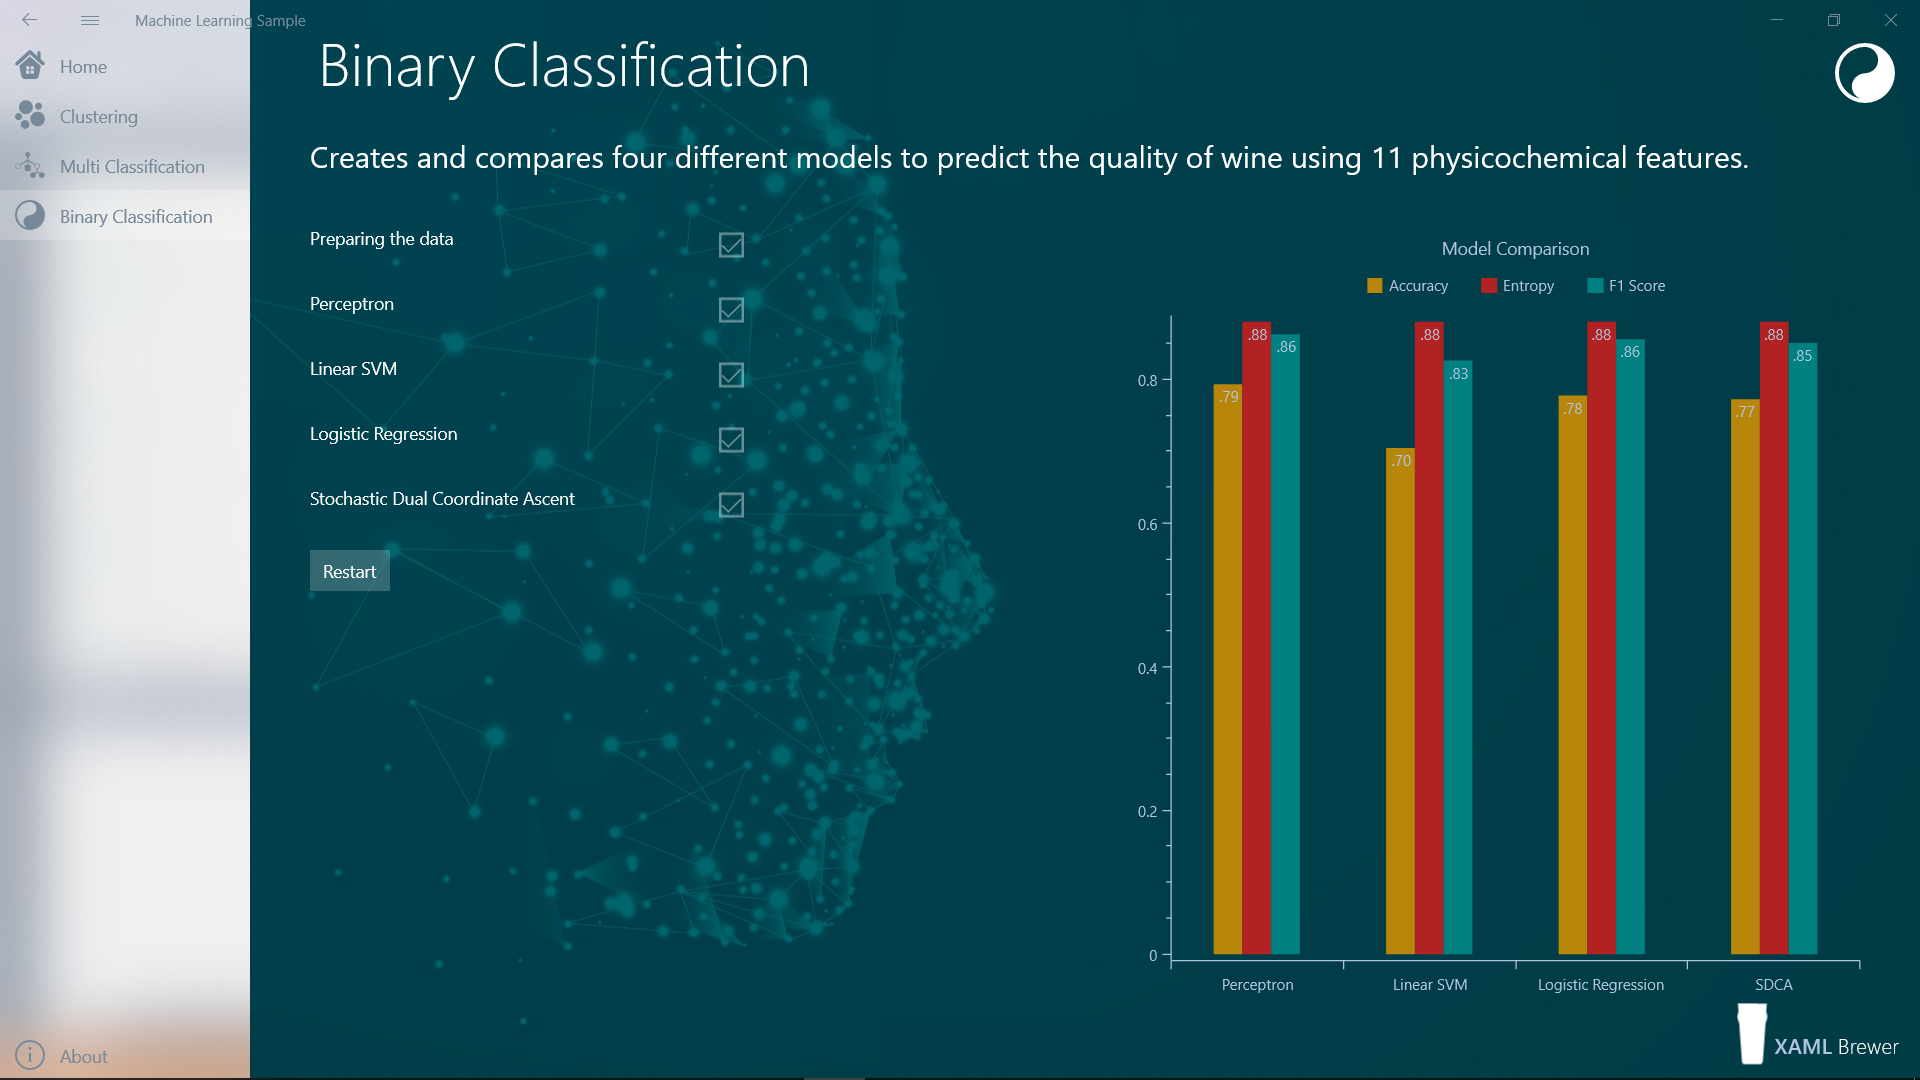
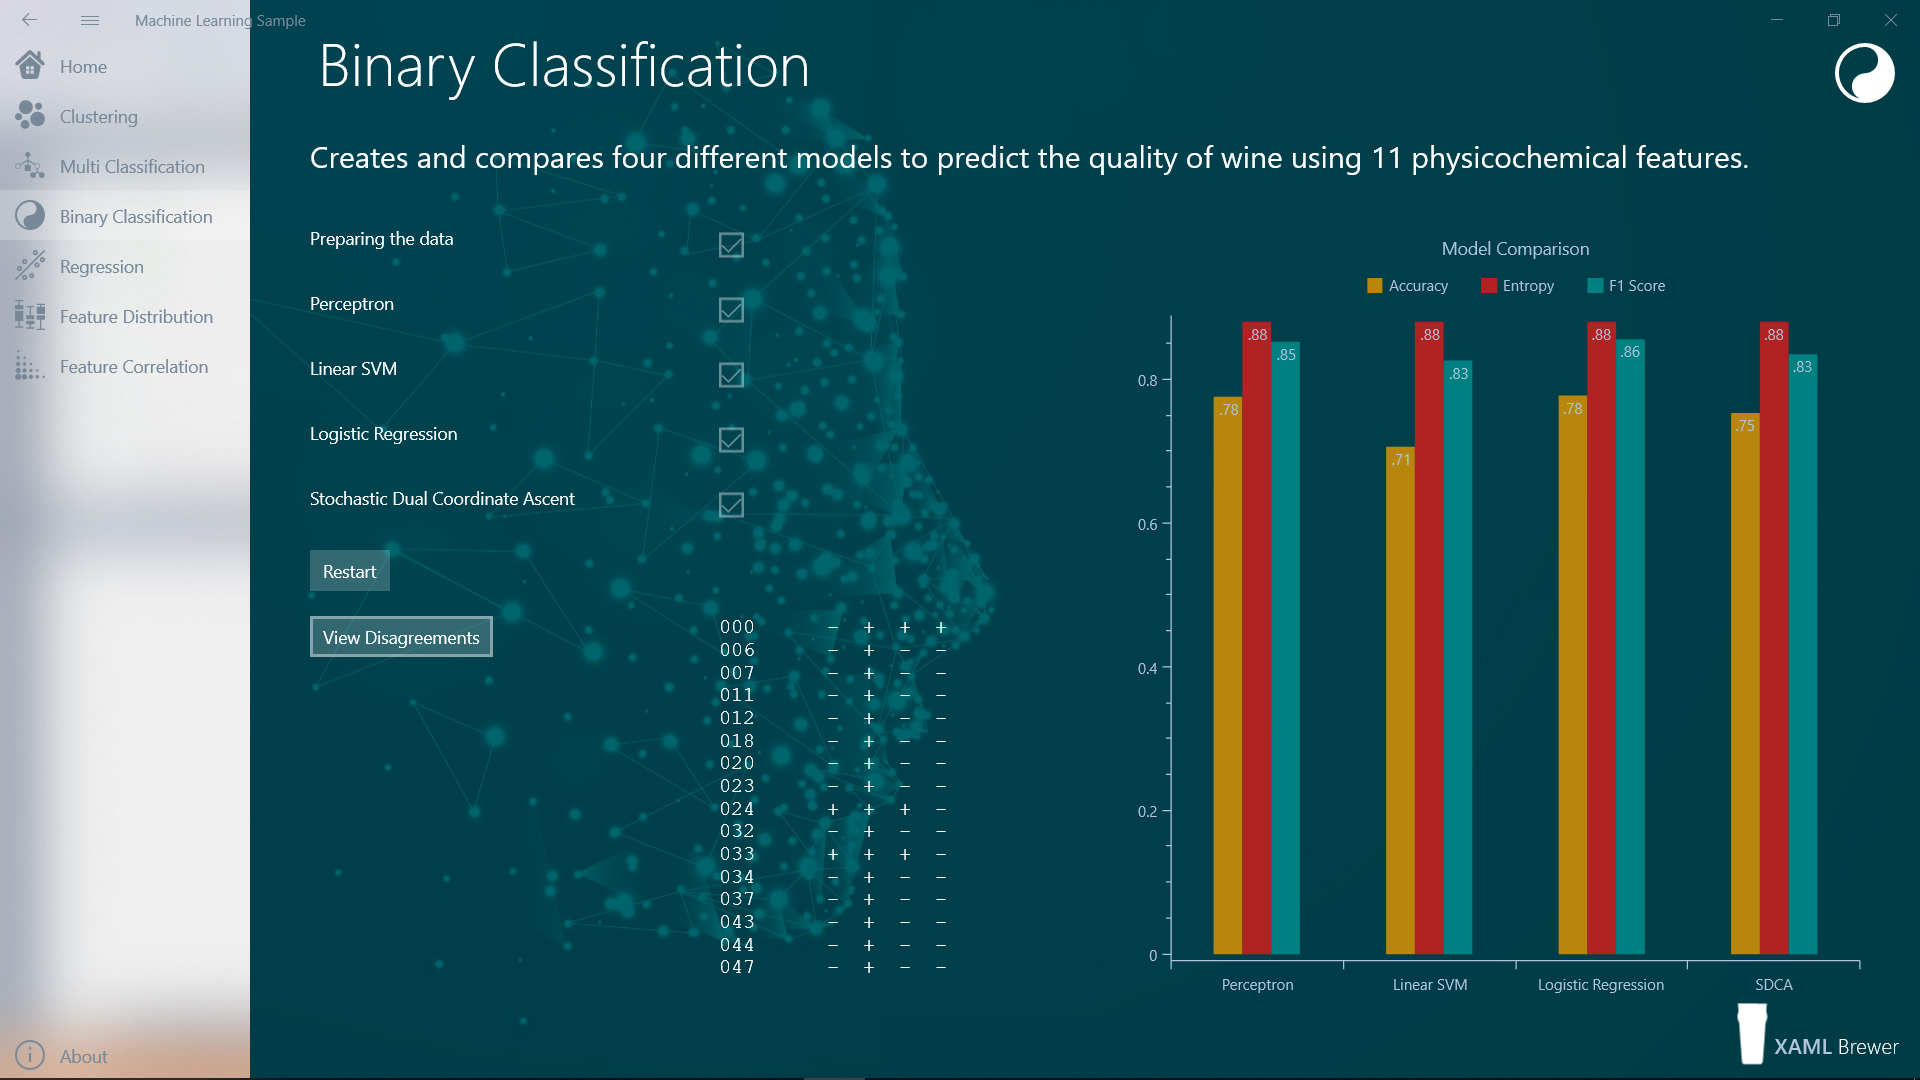
Binary Classification: compare predictions.

diff --git a/XamlBrewer.Uwp.MachineLearningSample/Views/BinaryClassificationPage.xaml b/XamlBrewer.Uwp.MachineLearningSample/Views/BinaryClassificationPage.xaml
@@ -64,7 +64,6 @@
                     <RowDefinition Height="auto" />
                     <RowDefinition Height="auto" />
                     <RowDefinition Height="auto" />
-                    <RowDefinition Height="auto" />
                 </Grid.RowDefinitions>
                 <TextBlock Grid.Row="0">Preparing the data</TextBlock>
                 <CheckBox x:Name="DatasetBox"
@@ -99,19 +98,16 @@
                           Grid.Column="1" />
                 <Button Click="Page_Loaded"
                         Grid.Row="5">Restart</Button>
-                <!--<TextBox x:Name="TextInput"
-                         Header="Type some text"
-                         IsSpellCheckEnabled="False"
-                         Margin="0 40 0 0"
-                         Grid.ColumnSpan="2"
-                         Grid.Row="6" />
                 <Button Click="Calculate_Click"
-                        Grid.Row="7">Predict Language</Button>
-                <TextBlock x:Name="TextPrediction"
-                           Foreground="LightCoral"
-                           Grid.Row="7"
+                        VerticalAlignment="Top"
+                        Grid.Row="6">View Disagreements</Button>
+                <TextBlock x:Name="Votes"
+                           Foreground="{StaticResource PageForegroundBrush}"
+                           FontSize="16"
+                           Grid.Row="6"
                            Grid.Column="1"
-                           HorizontalAlignment="Right" />-->
+                           HorizontalAlignment="Left"
+                           FontFamily="Courier New" />
             </Grid>
             <oxy:PlotView x:Name="Diagram"
                           Background="Transparent"

diff --git a/XamlBrewer.Uwp.MachineLearningSample/Views/BinaryClassificationPage.xaml.cs b/XamlBrewer.Uwp.MachineLearningSample/Views/BinaryClassificationPage.xaml.cs
@@ -1,15 +1,26 @@
-using Microsoft.ML.Legacy.Trainers;
+using Microsoft.ML.Legacy;
+using Microsoft.ML.Legacy.Trainers;
 using Mvvm.Services;
 using OxyPlot;
 using OxyPlot.Axes;
 using OxyPlot.Series;
+using System;
+using System.Diagnostics;
+using System.Linq;
 using Windows.UI.Xaml.Controls;
+using XamlBrewer.Uwp.MachineLearningSample.Models;
 using XamlBrewer.Uwp.MachineLearningSample.ViewModels;
 
 namespace XamlBrewer.Uwp.MachineLearningSample
 {
     public sealed partial class BinaryClassificationPage : Page
     {
+        private string _testDataPath;
+        private PredictionModel<BinaryClassificationData, BinaryClassificationPrediction> _perceptronBinaryModel;
+        private PredictionModel<BinaryClassificationData, BinaryClassificationPrediction> _linearSvmModel;
+        private PredictionModel<BinaryClassificationData, BinaryClassificationPrediction> _logisticRegressionModel;
+        private PredictionModel<BinaryClassificationData, BinaryClassificationPrediction> _sdcabModel;
+
         public BinaryClassificationPage()
         {
             this.InitializeComponent();
@@ -31,16 +42,16 @@ namespace XamlBrewer.Uwp.MachineLearningSample
             // Prepare datasets.
             DatasetBox.IsChecked = true;
             var trainingDataLocation = await MlDotNet.FilePath(@"ms-appx:///Data/winequality_white_train.csv");
-            var testDataLocation = await MlDotNet.FilePath(@"ms-appx:///Data/winequality_white_test.csv");
+            _testDataPath = await MlDotNet.FilePath(@"ms-appx:///Data/winequality_white_test.csv");
 
             // Prepare diagram.
             PrepareDiagram(out ColumnSeries accuracySeries, out ColumnSeries entropySeries, out ColumnSeries f1ScoreSeries);
 
             // Perceptron
             PerceptronBox.IsChecked = true;
-            var perceptronBinaryModel = await ViewModel.BuildAndTrain(trainingDataLocation, new AveragedPerceptronBinaryClassifier());
-            await ViewModel.Save(perceptronBinaryModel, "perceptronModel.zip");
-            var metrics = await ViewModel.Evaluate(perceptronBinaryModel, testDataLocation);
+            _perceptronBinaryModel = await ViewModel.BuildAndTrain(trainingDataLocation, new AveragedPerceptronBinaryClassifier());
+            await ViewModel.Save(_perceptronBinaryModel, "perceptronModel.zip");
+            var metrics = await ViewModel.Evaluate(_perceptronBinaryModel, _testDataPath);
             accuracySeries.Items.Add(new ColumnItem { CategoryIndex = 0, Value = metrics.Accuracy });
             entropySeries.Items.Add(new ColumnItem { CategoryIndex = 0, Value = metrics.Entropy });
             f1ScoreSeries.Items.Add(new ColumnItem { CategoryIndex = 0, Value = metrics.F1Score });
@@ -56,9 +67,9 @@ namespace XamlBrewer.Uwp.MachineLearningSample
 
             // Linear SVM
             LinearSvmBox.IsChecked = true;
-            var linearSvmModel = await ViewModel.BuildAndTrain(trainingDataLocation, new LinearSvmBinaryClassifier());
-            await ViewModel.Save(linearSvmModel, "linearSvmModel.zip");
-            metrics = await ViewModel.Evaluate(linearSvmModel, testDataLocation);
+            _linearSvmModel = await ViewModel.BuildAndTrain(trainingDataLocation, new LinearSvmBinaryClassifier());
+            await ViewModel.Save(_linearSvmModel, "linearSvmModel.zip");
+            metrics = await ViewModel.Evaluate(_linearSvmModel, _testDataPath);
             accuracySeries.Items.Add(new ColumnItem { CategoryIndex = 1, Value = metrics.Accuracy });
             entropySeries.Items.Add(new ColumnItem { CategoryIndex = 1, Value = metrics.Entropy });
             f1ScoreSeries.Items.Add(new ColumnItem { CategoryIndex = 1, Value = metrics.F1Score });
@@ -68,9 +79,9 @@ namespace XamlBrewer.Uwp.MachineLearningSample
 
             // Logistic Regression
             LogisticRegressionBox.IsChecked = true;
-            var logisticRegressionModel = await ViewModel.BuildAndTrain(trainingDataLocation, new LogisticRegressionBinaryClassifier());
-            await ViewModel.Save(logisticRegressionModel, "logisticRegressionModel.zip");
-            metrics = await ViewModel.Evaluate(logisticRegressionModel, testDataLocation);
+            _logisticRegressionModel = await ViewModel.BuildAndTrain(trainingDataLocation, new LogisticRegressionBinaryClassifier());
+            await ViewModel.Save(_logisticRegressionModel, "logisticRegressionModel.zip");
+            metrics = await ViewModel.Evaluate(_logisticRegressionModel, _testDataPath);
             accuracySeries.Items.Add(new ColumnItem { CategoryIndex = 2, Value = metrics.Accuracy });
             entropySeries.Items.Add(new ColumnItem { CategoryIndex = 2, Value = metrics.Entropy });
             f1ScoreSeries.Items.Add(new ColumnItem { CategoryIndex = 2, Value = metrics.F1Score });
@@ -80,9 +91,9 @@ namespace XamlBrewer.Uwp.MachineLearningSample
 
             // Stochastic Dual Coordinate Ascent
             SdcaBox.IsChecked = true;
-            var sdcabModel = await ViewModel.BuildAndTrain(trainingDataLocation, new StochasticDualCoordinateAscentBinaryClassifier());
-            await ViewModel.Save(sdcabModel, "sdcabModel.zip");
-            metrics = await ViewModel.Evaluate(sdcabModel, testDataLocation);
+            _sdcabModel = await ViewModel.BuildAndTrain(trainingDataLocation, new StochasticDualCoordinateAscentBinaryClassifier());
+            await ViewModel.Save(_sdcabModel, "sdcabModel.zip");
+            metrics = await ViewModel.Evaluate(_sdcabModel, _testDataPath);
             accuracySeries.Items.Add(new ColumnItem { CategoryIndex = 3, Value = metrics.Accuracy });
             entropySeries.Items.Add(new ColumnItem { CategoryIndex = 3, Value = metrics.Entropy });
             f1ScoreSeries.Items.Add(new ColumnItem { CategoryIndex = 3, Value = metrics.F1Score });
@@ -161,8 +172,42 @@ namespace XamlBrewer.Uwp.MachineLearningSample
             Diagram.Model = plotModel;
         }
 
-        private void Calculate_Click(object sender, Windows.UI.Xaml.RoutedEventArgs e)
+        private async void Calculate_Click(object sender, Windows.UI.Xaml.RoutedEventArgs e)
         {
+            Votes.Text = string.Empty;
+
+            var testDataLocation = await MlDotNet.FilePath(@"ms-appx:///Data/winequality_white_test.csv");
+            var tests = await ViewModel.GetSample(testDataLocation);
+            var size = 50;
+            var data = tests.ToList().Take(size);
+
+            var perceptronPrediction = (await ViewModel.Predict(_perceptronBinaryModel, data)).ToList();
+            var linearSvmPrediction = (await ViewModel.Predict(_linearSvmModel, data)).ToList();
+            var logisticRegressionPrediction = (await ViewModel.Predict(_logisticRegressionModel, data)).ToList();
+            var sdcabPrediction = (await ViewModel.Predict(_sdcabModel, data)).ToList();
+
+            for (int i = 0; i < size; i++)
+            {
+                var vote = perceptronPrediction[i].LabelAsNumber +
+                           linearSvmPrediction[i].LabelAsNumber +
+                           logisticRegressionPrediction[i].LabelAsNumber +
+                           sdcabPrediction[i].LabelAsNumber;
+
+                if (vote > 0 && vote < 4)
+                {
+                    Votes.Text += 
+                        i.ToString("000     ") +
+                        BoolVisual(perceptronPrediction[i].PredictedLabel) +
+                        BoolVisual(linearSvmPrediction[i].PredictedLabel) +
+                        BoolVisual(logisticRegressionPrediction[i].PredictedLabel) +
+                        BoolVisual(sdcabPrediction[i].PredictedLabel) + Environment.NewLine;
+                }
+            }
+        }
+
+        private string BoolVisual(bool value)
+        {
+            return value ? " + " : " - ";
         }
     }
 }

diff --git a/XamlBrewer.Uwp.MachineLearningSample/ViewModels/BinaryClassificationPageViewModel.cs b/XamlBrewer.Uwp.MachineLearningSample/ViewModels/BinaryClassificationPageViewModel.cs
@@ -2,16 +2,22 @@
 using Microsoft.ML.Legacy.Data;
 using Microsoft.ML.Legacy.Models;
 using Microsoft.ML.Legacy.Transforms;
+using Microsoft.ML.Runtime.Data;
 using Mvvm;
+using System.Collections.Generic;
 using System.IO;
+using System.Linq;
 using System.Threading.Tasks;
 using Windows.Storage;
 using XamlBrewer.Uwp.MachineLearningSample.Models;
+using TextLoader = Microsoft.ML.Legacy.Data.TextLoader;
 
 namespace XamlBrewer.Uwp.MachineLearningSample.ViewModels
 {
     internal class BinaryClassificationPageViewModel : ViewModelBase
     {
+        private LocalEnvironment _mlContext = new LocalEnvironment(seed: null); // v0.6;
+
         public Task<PredictionModel<BinaryClassificationData, BinaryClassificationPrediction>> BuildAndTrain(string trainingDataPath, ILearningPipelineItem algorithm)
         {
             return Task.Run(() =>
@@ -55,6 +61,39 @@ namespace XamlBrewer.Uwp.MachineLearningSample.ViewModels
                 var testData = new TextLoader(testDataLocation).CreateFrom<BinaryClassificationData>(useHeader: true, separator: ';');
                 var metrics = new BinaryClassificationEvaluator().Evaluate(model, testData);
                 return metrics;
+            });
+        }
+
+        public Task<IEnumerable<BinaryClassificationPrediction>> Predict(PredictionModel<BinaryClassificationData, BinaryClassificationPrediction> model, IEnumerable<BinaryClassificationData> data)
+        {
+            return Task.Run(() =>
+            {
+                return model.Predict(data);
+            });
+        }
+
+        public Task<IEnumerable<BinaryClassificationData>> GetSample(string sampleDataPath)
+        {
+            return Task.Run(() =>
+            {
+                return File.ReadAllLines(sampleDataPath)
+                   .Skip(1)
+                   .Select(x => x.Split(';'))
+                   .Select(x => new BinaryClassificationData
+                   {
+                       FixedAcidity = float.Parse(x[0]),
+                       VolatileAcidity = float.Parse(x[1]),
+                       CitricAcid = float.Parse(x[2]),
+                       ResidualSugar = float.Parse(x[3]),
+                       Chlorides = float.Parse(x[4]),
+                       FreeSulfurDioxide = float.Parse(x[5]),
+                       TotalSulfurDioxide = float.Parse(x[6]),
+                       Density = float.Parse(x[7]),
+                       Ph = float.Parse(x[8]),
+                       Sulphates = float.Parse(x[9]),
+                       Alcohol = float.Parse(x[10]),
+                       Label = float.Parse(x[11])
+                   });
             });
         }
 

diff --git a/XamlBrewer.Uwp.MachineLearningSample/ViewModels/BoxPlotPageViewModel.cs b/XamlBrewer.Uwp.MachineLearningSample/ViewModels/BoxPlotPageViewModel.cs
@@ -32,7 +32,7 @@ namespace XamlBrewer.Uwp.MachineLearningSample.ViewModels
 
                 var file = _mlContext.OpenInputFile(trainingDataPath);
                 var src = new FileHandleSource(file);
-                return reader.Read(src).AsEnumerable<ClusteringRawData>(_mlContext, false); ;
+                return reader.Read(src).AsEnumerable<ClusteringRawData>(_mlContext, false);
             });
         }
     }

diff --git a/XamlBrewer.Uwp.MachineLearningSample/Models/BinaryClassificationPrediction.cs b/XamlBrewer.Uwp.MachineLearningSample/Models/BinaryClassificationPrediction.cs
@@ -6,5 +6,7 @@ namespace XamlBrewer.Uwp.MachineLearningSample.Models
     {
         [ColumnName("PredictedLabel")]
         public bool PredictedLabel;
+
+        public int LabelAsNumber => PredictedLabel ? 1 : 0;
     }
 }
